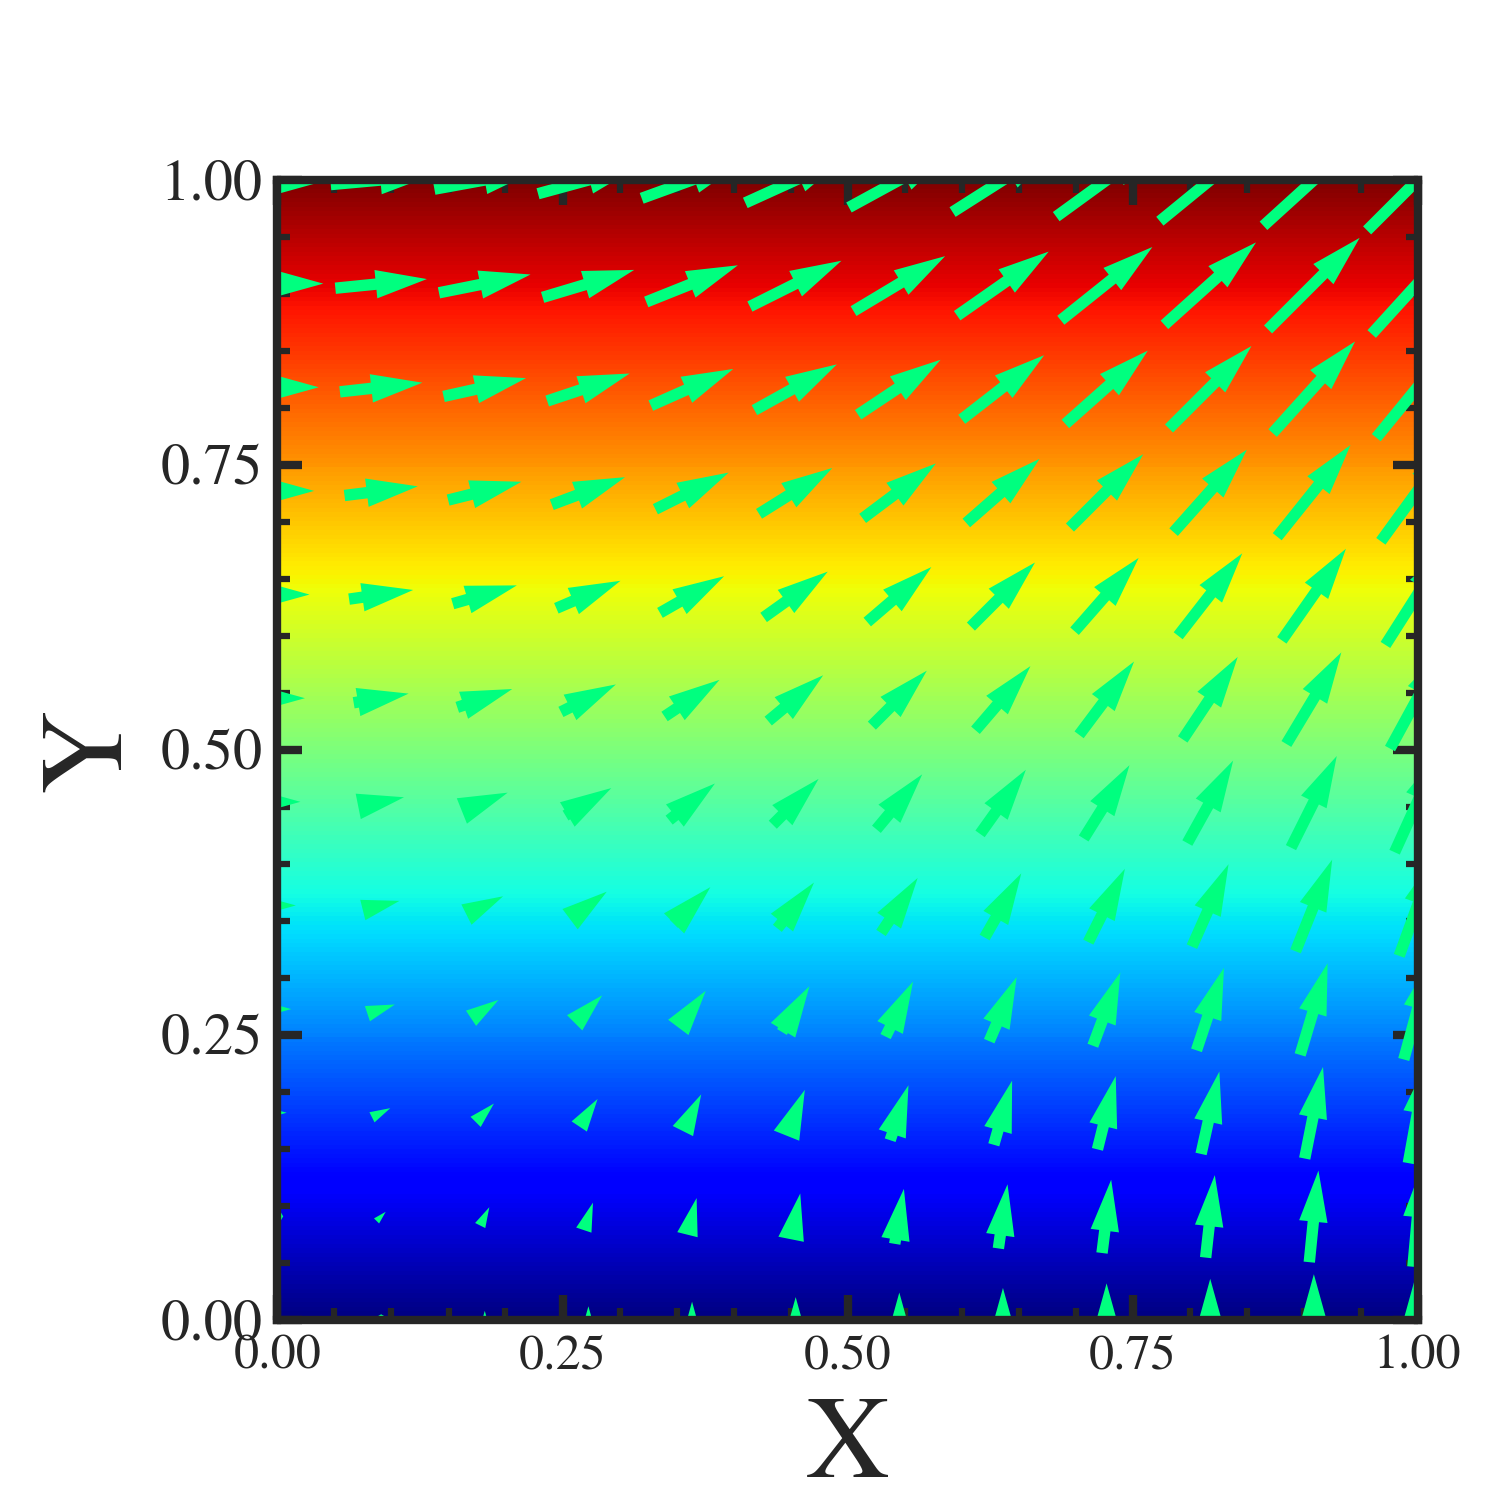
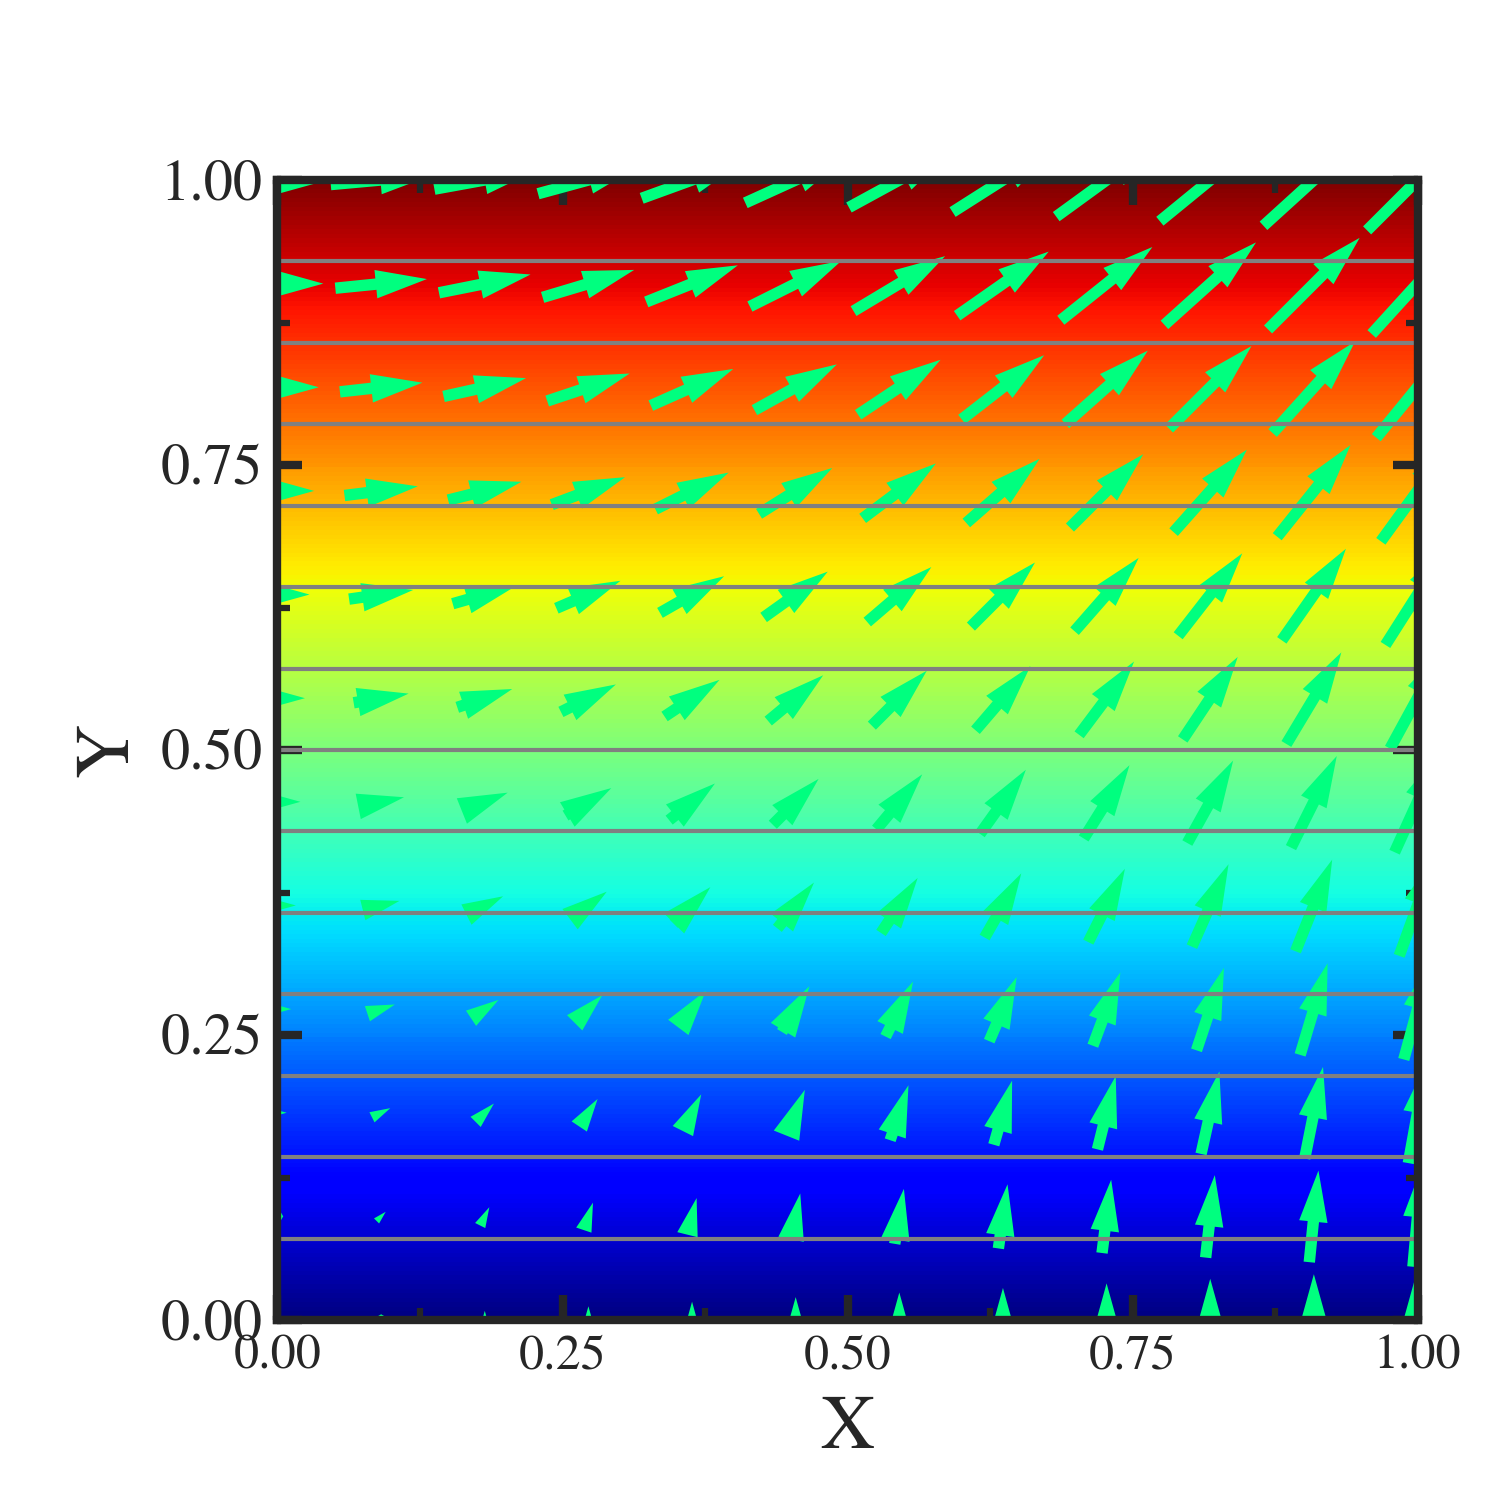
update cMapTri.py reflecting modification during work time

diff --git a/cMapTri.py b/cMapTri.py
@@ -4,6 +4,7 @@ import nkUtilities.load__config     as lcf
 import numpy                        as np
 import matplotlib.pyplot            as plt
 import matplotlib.tri               as tri
+import matplotlib.ticker            as tic
 import scipy.interpolate            as itp
 
 
@@ -111,12 +112,13 @@ class cMapTri:
         # ------------------------------------------------- #
         # --- 軸情報整形 : 1次元軸 を 各点情報へ変換    --- #
         # ------------------------------------------------- #
-        xAxis_, yAxis_ = xAxis, yAxis
+        xAxis_, yAxis_ = np.copy( xAxis ), np.copy( yAxis )
         # ------------------------------------------------- #
         # --- カラーマップを作図                        --- #
         # ------------------------------------------------- #
-        self.cMap[ np.where( self.cMap < float( self.cmpLevels[ 0] ) ) ] = self.cmpLevels[ 0]
-        self.cMap[ np.where( self.cMap > float( self.cmpLevels[-1] ) ) ] = self.cmpLevels[-1]
+        eps = 1.e-10 * abs( self.cmpLevels[-1] - self.cmpLevels[0] )
+        self.cMap[ np.where( self.cMap < float( self.cmpLevels[ 0] ) ) ] = self.cmpLevels[ 0] + eps
+        self.cMap[ np.where( self.cMap > float( self.cmpLevels[-1] ) ) ] = self.cmpLevels[-1] - eps
         triangulated = tri.Triangulation( xAxis_, yAxis_ )
         self.cImage = self.ax1.tricontourf( triangulated, self.cMap, self.cmpLevels, \
                                             cmap = self.config["cmp_ColorTable"], zorder=0 )
@@ -137,12 +139,16 @@ class cMapTri:
     # ========================================================= #
     # === 等高線 追加 ルーチン  ( add__contour )            === #
     # ========================================================= #
-    def add__contour( self, xAxis=None, yAxis=None, Cntr=None, levels=None ):
+    def add__contour( self, xAxis=None, yAxis=None, Cntr=None ):
         # ------------------------------------------------- #
         # --- 引数情報 更新                             --- #
         # ------------------------------------------------- #
-        self.Cntr = Cntr
-        if ( levels is not None ): self.cntLevels = levels
+        if ( xAxis  is not None ): self.xAxis = xAxis
+        if ( yAxis  is not None ): self.yAxis = yAxis
+        if ( Cntr   is None     ):
+            sys.exit( "[add__contour] Cntr == ???" )
+        else:
+            self.Cntr = Cntr
         # ------------------------------------------------- #
         # --- コンター情報を設定する                    --- #
         # ------------------------------------------------- #
@@ -153,16 +159,21 @@ class cMapTri:
         # ------------------------------------------------- #
         # --- 軸情報整形 : 1次元軸 を 各点情報へ変換    --- #
         # ------------------------------------------------- #
-        if ( ( xAxis.ndim == 1 ) and ( yAxis.ndim == 1 ) ):
-            xAxis_, yAxis_ = np.meshgrid( xAxis, yAxis, indexing='ij' )
-        else:
-            xAxis_, yAxis_ = xAxis, yAxis
+        xAxis_, yAxis_ = np.copy( xAxis ), np.copy( yAxis )
+        # ------------------------------------------------- #
+        # --- カラーマップを作成                        --- #
+        # ------------------------------------------------- #
+        eps = 1.e-10 * abs( self.cntLevels[-1] - self.cntLevels[0] )
+        self.Cntr[ np.where( self.Cntr < float( self.cntLevels[ 0] ) ) ] = self.cntLevels[ 0] + eps
+        self.Cntr[ np.where( self.Cntr > float( self.cntLevels[-1] ) ) ] = self.cntLevels[-1] - eps
+        triangulated = tri.Triangulation( xAxis_, yAxis_ )
         # ------------------------------------------------- #
         # --- 等高線をプロット                          --- #
         # ------------------------------------------------- #
-        self.ax1.contour( xAxis_, yAxis_, Cntr, self.cntLevels , \
-                          colors     = self.config["cnt_color"], \
-                          linewidths = self.config["cnt_linewidth"] )
+        self.cImage = self.ax1.tricontour( triangulated, self.Cntr, self.cntLevels, \
+                                           colors     = self.config["cnt_color"], \
+                                           linewidths = self.config["cnt_linewidth"], \
+                                           zorder=1 )
         self.set__axis()
 
         
@@ -209,7 +220,7 @@ class cMapTri:
     # ========================================================= #
     # ===  点 追加                                          === #
     # ========================================================= #
-    def add__point( self, xAxis=None, yAxis=None, color=None, marker=None, markersize=None ):
+    def add__point( self, xAxis=None, yAxis=None, color=None, marker=None ):
         # ------------------------------------------------- #
         # --- 引数チェック                              --- #
         # ------------------------------------------------- #
@@ -217,12 +228,12 @@ class cMapTri:
         if ( yAxis      is None ): yAxis      = 0
         if ( color      is None ): color      = self.config["cmp_pointColor"]
         if ( marker     is None ): marker     = self.config["cmp_pointMarker"]
-        if ( markersize is None ): markersize = self.config["cmp_pointSize"]
         # ------------------------------------------------- #
         # --- 点 描画                                   --- #
         # ------------------------------------------------- #
         self.ax1.plot( xAxis, yAxis, marker=marker, color=color, \
-                       markersize=markersize, linewidth=0.0 )
+                       markersize=self.config["cmp_pointSize"], \
+                       linewidth=0.0 )
 
 
     # ========================================================= #
@@ -247,10 +258,6 @@ class cMapTri:
                        alpha =0.95,  marker=marker, \
                        label =label, linewidth=linewidth, \
                        color =color, linestyle=linestyle, )
-        if ( xAxis  is None ): xAxis  = [0.,1.]
-        if ( yAxis  is None ): yAxis  = [0.,1.]
-        if ( color  is None ): color  = "black"
-        self.ax1.plot( xAxis, yAxis, color=color )
     
 
     # ========================================================= #
@@ -333,6 +340,8 @@ class cMapTri:
                               length=self.config["xMajor_length"], width    =self.config["xMajor_width"   ]  )
         self.ax1.tick_params( axis  ="y"                         , labelsize=self.config["yMajor_FontSize"], \
                               length=self.config["yMajor_length"], width    =self.config["yMajor_width"   ]  )
+        self.ax1.xaxis.set_minor_locator( tic.AutoMinorLocator( self.config["xMinor_Nticks"] ) )
+        self.ax1.yaxis.set_minor_locator( tic.AutoMinorLocator( self.config["yMinor_Nticks"] ) )
         # ------------------------------------------------- #
         # --- 軸目盛 無し                               --- #
         # ------------------------------------------------- #
@@ -348,8 +357,8 @@ class cMapTri:
         # ------------------------------------------------- #
         # --- 軸タイトル 設定 ( xlabel, ylabel )        --- #
         # ------------------------------------------------- #
-        self.ax1.set_xlabel( self.config["xTitle"] )
-        self.ax1.set_ylabel( self.config["yTitle"] )
+        self.ax1.set_xlabel( self.config["xTitle"], fontsize=self.config["xTitle_FontSize"] )
+        self.ax1.set_ylabel( self.config["yTitle"], fontsize=self.config["xTitle_FontSize"] )
         # ------------------------------------------------- #
         # --- 軸タイトル 無し                           --- #
         # ------------------------------------------------- #            
@@ -390,7 +399,7 @@ class cMapTri:
         # ------------------------------------------------- #
         if ( nLevels is None ): nLevels = self.config["cnt_nLevels"]
         if (  levels is None ):
-            minVal, maxVal  = np.min( self.cMap ), np.max( self.cMap )
+            minVal, maxVal  = np.min( self.Cntr ), np.max( self.Cntr )
             levels          = np.linspace( minVal, maxVal, nLevels )
         # ------------------------------------------------- #
         # --- cntLevels を 設定                         --- #
@@ -496,6 +505,7 @@ if ( __name__=="__main__" ):
     fig = cMapTri( pngFile="vec.png" )
     fig.add__cMap  ( xAxis=xAxis, yAxis=yAxis, cMap=uvec )
     fig.add__vector( xAxis=xAxis, yAxis=yAxis, uvec=uvec, vvec=vvec )
+    fig.add__contour( xAxis=xAxis, yAxis=yAxis, Cntr=uvec )
     fig.save__figure()
 
 
